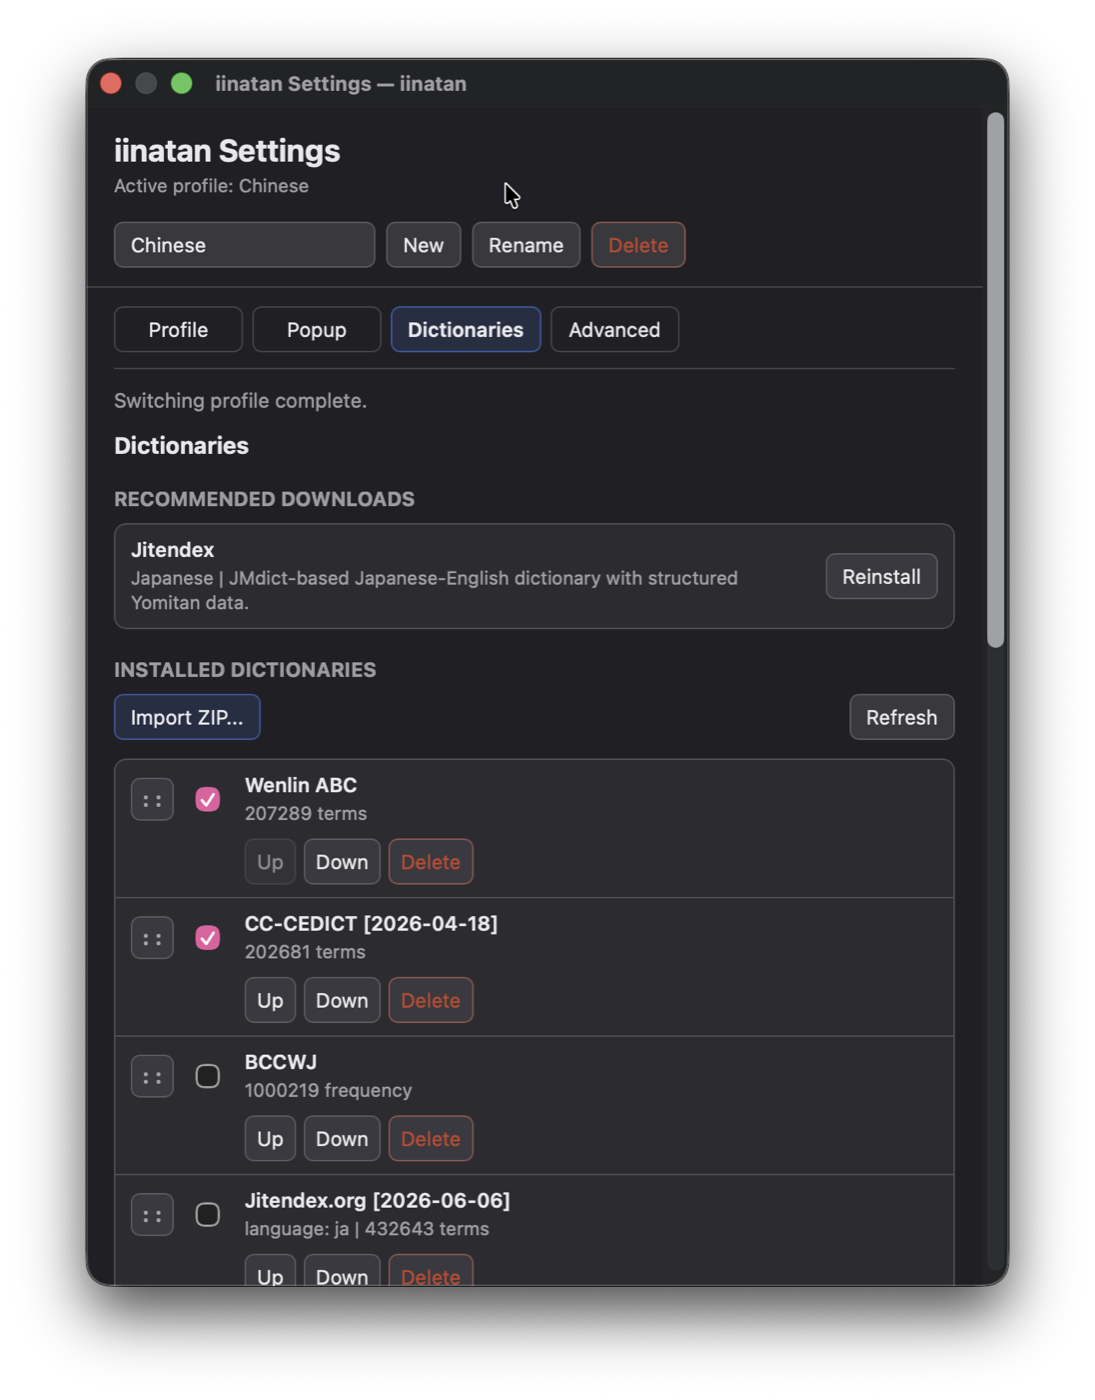
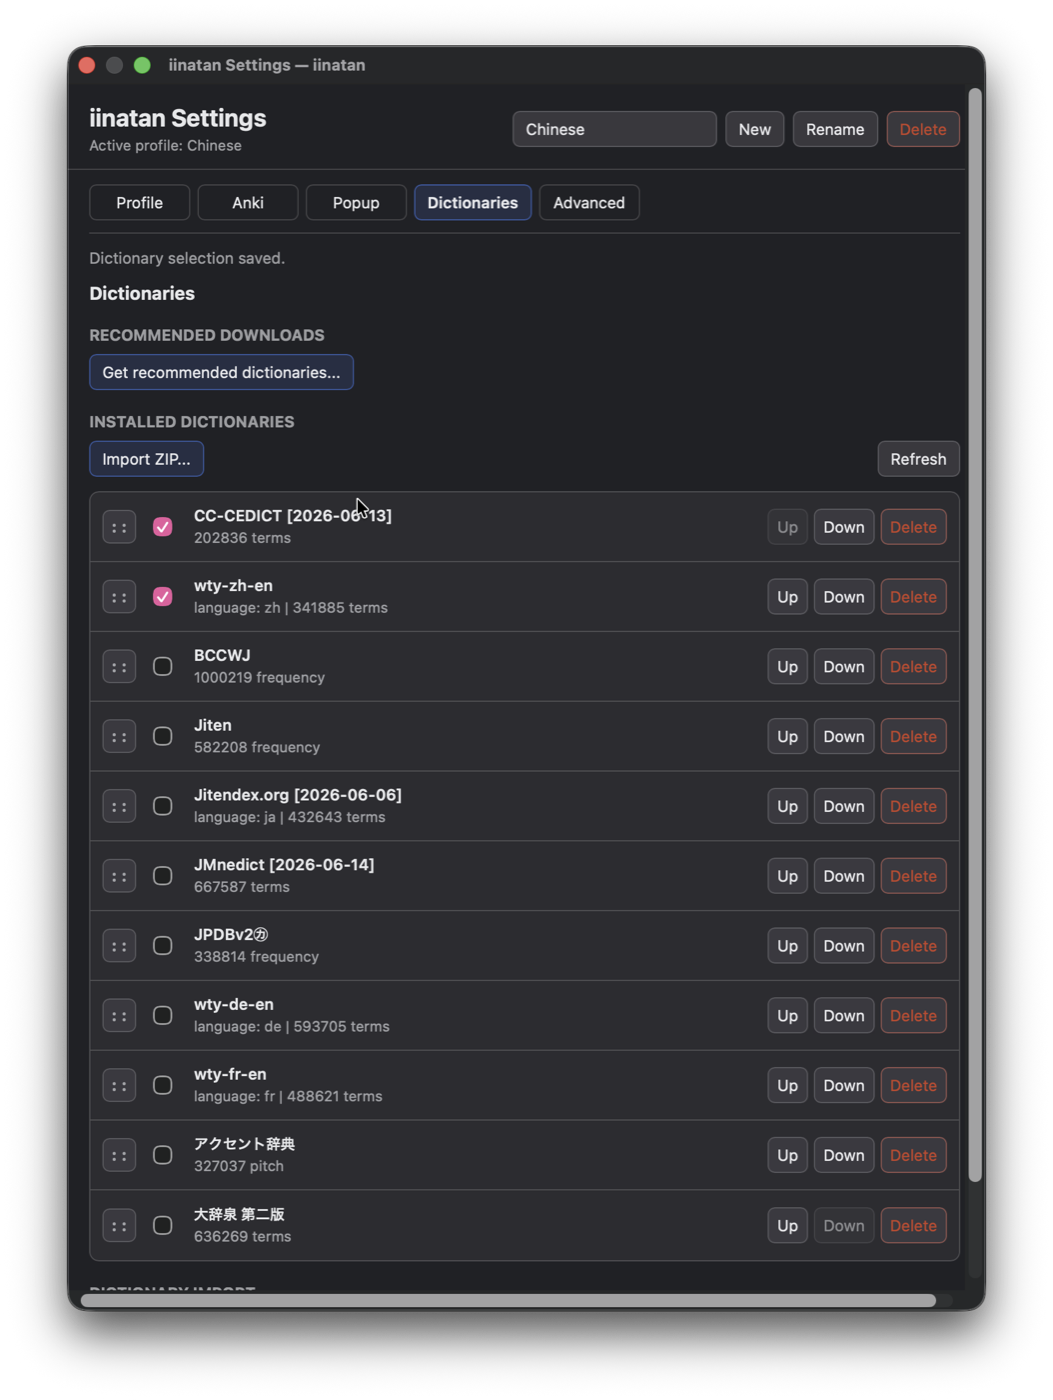
Refresh README screenshots and docs housekeeping

Changed region(s): [[0.0304, 0.0307, 0.9725, 0.9829]]

diff --git a/README.md b/README.md
@@ -8,18 +8,20 @@ Anki export is available through AnkiConnect when Anki is running in the backgro
 
 ## Screenshots
 
-![Japanese popup over paused subtitles](docs/screenshots/japanese-popup.png)
+![Japanese popup with Anki add confirmation](docs/screenshots/japanese-popup.png)
 
-| English lookup and language menu | Dictionary settings |
+| German lookup | Anki setup |
 | --- | --- |
-| ![English lookup with language menu](docs/screenshots/english-popup-language-menu.png) | ![Dictionary settings](docs/screenshots/dictionary-settings.png) |
+| ![German popup over paused subtitles](docs/screenshots/german-popup.png) | ![Anki settings with popup add button enabled](docs/screenshots/anki-settings.png) |
+| Dictionary selection | Recommended dictionary downloads |
+| ![Dictionary settings with enabled Chinese dictionaries](docs/screenshots/dictionary-settings.png) | ![Recommended dictionaries dialog](docs/screenshots/recommended-dictionaries.png) |
 
 ## What You Get
 
 - Dictionary lookups directly on IINA subtitles.
 - Pause-only behavior, so popups do not interrupt normal playback.
 - Japanese, English, French, German, Chinese, and Korean lookup modes.
-- Built-in installer for the recommended Japanese dictionary, Jitendex.
+- Built-in downloader for recommended dictionaries and frequency data.
 - Import support for local Yomitan-compatible dictionary ZIP files.
 - Frequency and pitch-accent details for Japanese dictionaries that include them.
 - Compact popups with structured entries, tags, source links, collapsed long sections, and custom CSS.
@@ -63,7 +65,8 @@ Use this only if you want the newest in-progress changes and are comfortable wit
 2. Choose the lookup language you want to use.
 3. Import a compatible dictionary ZIP.
 4. Enable the dictionary and move it into the order you prefer.
-5. Pause playback and hover subtitle text.
+5. Toggle iinatan with **Shift+H**.
+6. Pause playback and hover subtitle text.
 
 If the popup does not appear, press **Shift+H** to toggle iinatan on.
 
@@ -104,6 +107,13 @@ Common settings include:
 ## Anki Export
 
 Install the AnkiConnect add-on, open Anki, then configure export from the **Anki** tab in **Plugins -> iinatan -> Settings...**. Anki settings are stored per profile, including the AnkiConnect URL, deck, note type, field templates, duplicate behavior, JPEG screenshot quality, and sentence audio format/bitrate.
+
+To add cards from the popup:
+
+1. Keep Anki open and make sure AnkiConnect shows as reachable in the **Anki** tab.
+2. Choose the deck, note type, and field mappings for the active profile.
+3. Enable **Show Anki add button in popups**. Without this checkbox, the popup will not show the add-card button even when AnkiConnect is configured.
+4. Press **Shift+H** to turn iinatan on, pause playback, hover subtitle text, then click the add-card button in the popup.
 
 The IINA plugin menu also includes **Settings...** and quick profile switching.
 

diff --git a/CHANGELOG.md b/CHANGELOG.md
@@ -2,6 +2,11 @@
 
 ## Unreleased
 
+### Documentation
+
+- Updated README screenshots and clarified Anki popup add-button setup.
+- Removed the completed local goal-tracking document from the repository.
+
 ## 2.0.0 - 2026-06-15
 
 ### Added